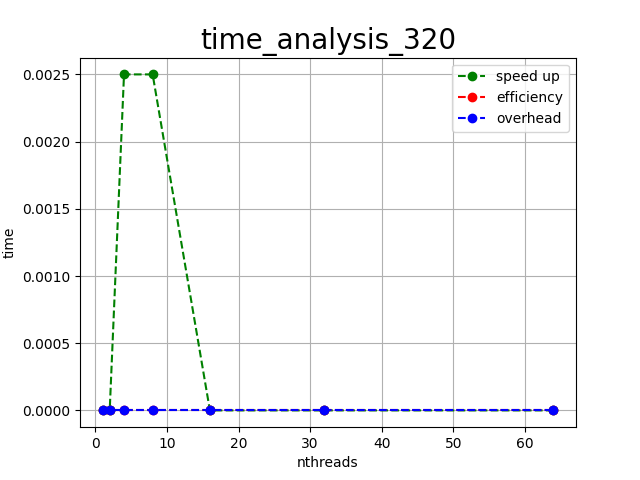
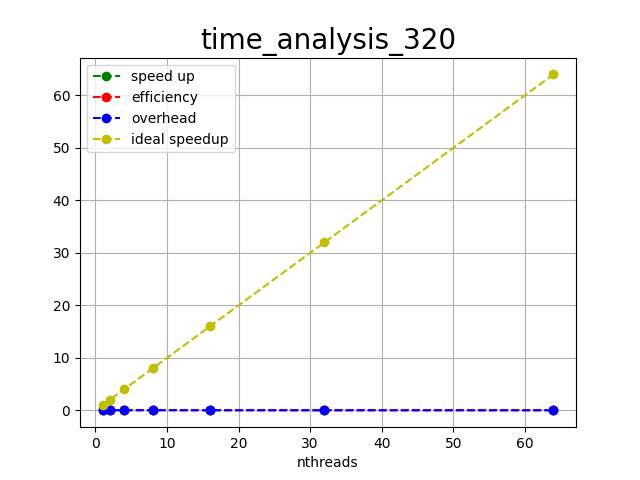
fix scripts, add final plots

diff --git a/mat-vet-openmp/scripts/gen_time_plots.py b/mat-vet-openmp/scripts/gen_time_plots.py
@@ -17,20 +17,21 @@ nthreads = [1, 2, 4, 8, 16, 32, 64]
 speed_up = []
 efficiency = []
 overhead = []
+asintoto = nthreads
 
 with open(input_path, 'r') as csvfile:
     lines = csv.reader(csvfile, delimiter=',')
     for row in lines:
-            speed_up.append(float(row[1])) # speed up
-            efficiency.append(float(row[2])) # efficiency
-            overhead.append(float(row[3])) # overhead
+            speed_up.append(float(row[2])) # speed up
+            efficiency.append(float(row[3])) # efficiency
+            overhead.append(float(row[4])) # overhead
                    
 
 plt.plot(nthreads, speed_up, color='g', linestyle='dashed', marker='o', label="speed up")
 plt.plot(nthreads, efficiency, color='r', linestyle='dashed', marker='o', label="efficiency")
 plt.plot(nthreads, overhead, color='b', linestyle='dashed', marker='o', label="overhead")
+plt.plot(nthreads, asintoto, color='y', linestyle='dashed', marker='o', label="ideal speedup")
 plt.xlabel('nthreads')
-plt.ylabel('time')
 plt.title(plot_name, fontsize=20)
 
 plt.grid()
